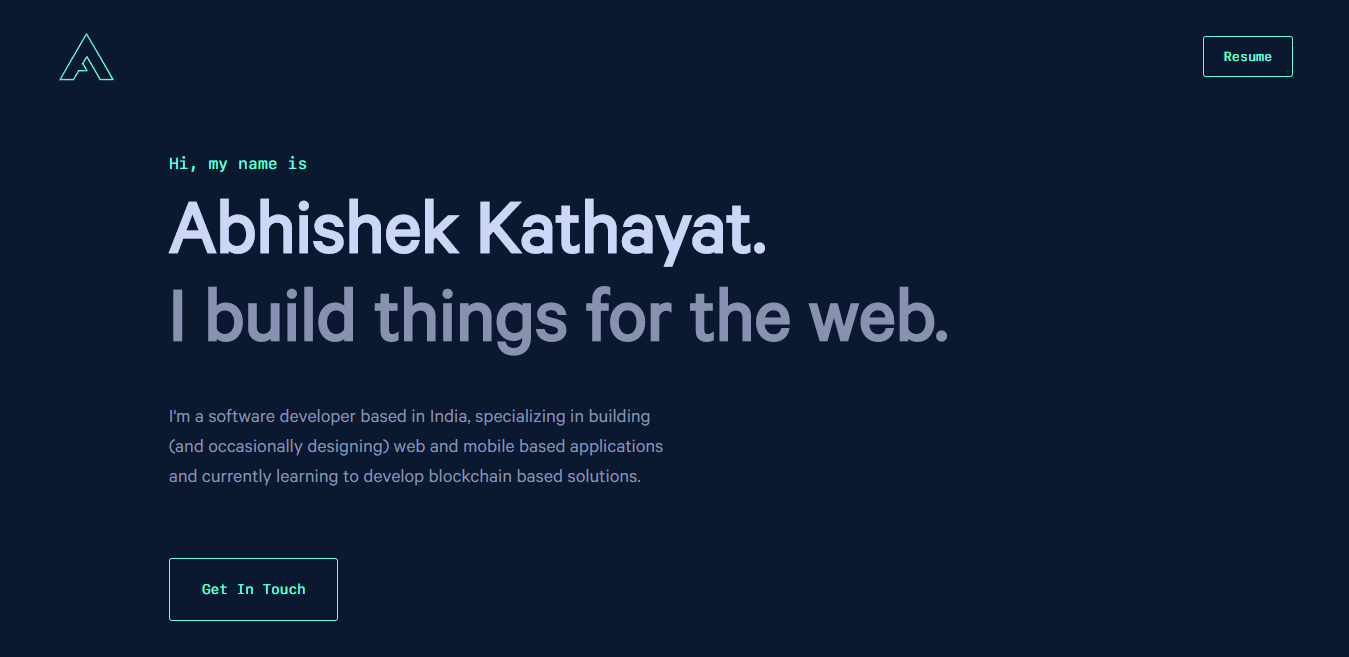
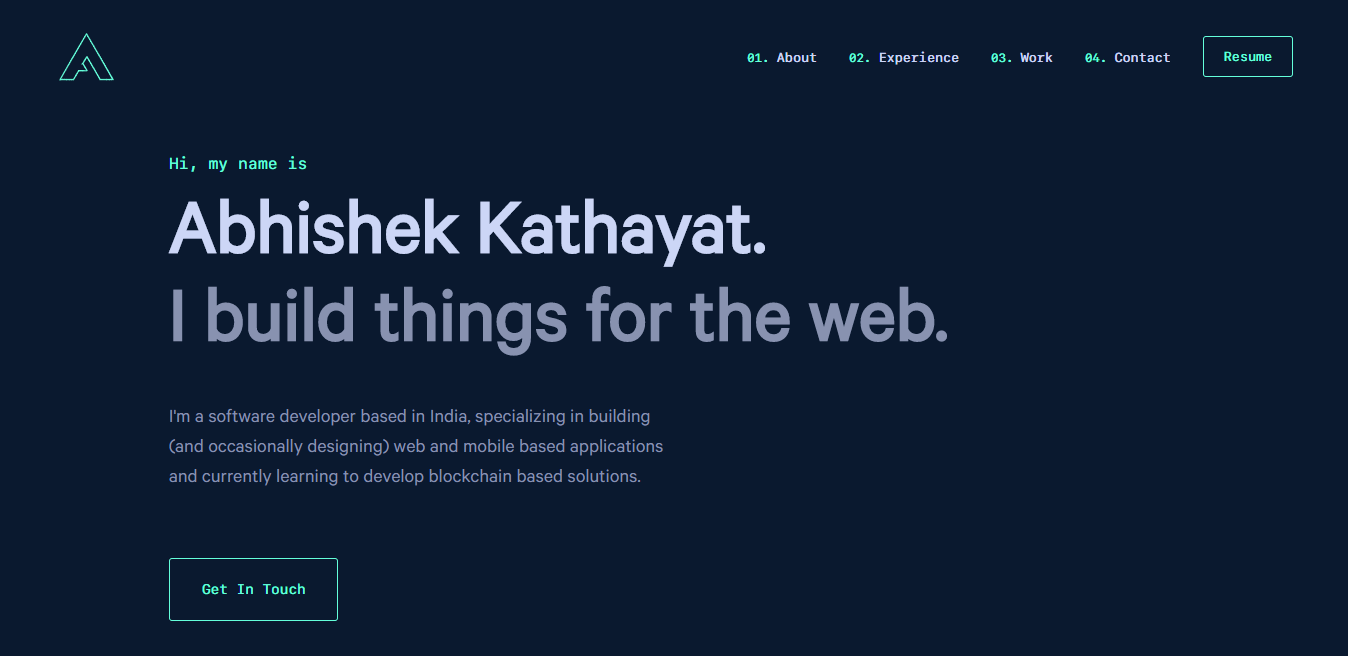
Changes Navbar

diff --git a/src/components/Navbar.vue b/src/components/Navbar.vue
@@ -5,6 +5,24 @@
                 <a href="https://abhishek-kathayat.github.io"><img src="../assets/profile-logo.svg" class="h-16 w-16"/></a>
             </div>
             <div class="navbar-right-section flex">
+                <ul class="navbar-right-links md:flex hidden">
+                    <li class="navbar-right-link-holder mx-4 self-center"> 
+                        <span class="navbar-right-link-index"> 01. </span> 
+                        <span class="navbar-right-link-text"> <a href=""> About </a> </span> 
+                    </li>
+                    <li class="navbar-right-link-holder mx-4 self-center"> 
+                        <span class="navbar-right-link-index"> 02. </span> 
+                        <span class="navbar-right-link-text"> <a href=""> Experience </a> </span> 
+                    </li>
+                    <li class="navbar-right-link-holder mx-4 self-center"> 
+                        <span class="navbar-right-link-index"> 03. </span> 
+                        <span class="navbar-right-link-text"> <a href=""> Work </a> </span> 
+                    </li>
+                    <li class="navbar-right-link-holder ml-4 mr-8 self-center"> 
+                        <span class="navbar-right-link-index"> 04. </span> 
+                        <span class="navbar-right-link-text"> <a href=""> Contact </a> </span> 
+                    </li>
+                </ul>
                 <a href="./resume.pdf" target="_blank" rel="noopener noreferrer" class="navbar-right-section-button flex self-center px-5">
                     Resume
                 </a>
@@ -20,6 +38,19 @@ export default {
 </script>
 
 <style scoped>
+.navbar-right-link-index {
+    font-family: 'San Francisco';
+    font-size: 12px;
+    color: #64ffda;
+}
+.navbar-right-link-text {
+    font-family: 'San Francisco';
+    font-size: 13px;
+    color: #ccd6f6;
+}
+.navbar-right-link-text:hover {
+    color: #64ffda;
+}
 .navbar-right-section-button {
     border-color: #64ffda;
     border-width: 1px;

diff --git a/src/components/Aboutme.vue b/src/components/Aboutme.vue
@@ -35,7 +35,7 @@
                 </div>
                 <div class="aboutme-main-content-image-container mt-12 md:mt-0 md:ml-16 md:w-5/12 lg:w-6/12">
                     <div class="aboutme-image-container flex justify-center">
-                        <img class="aboutme-image" src="../assets/abhishek.jpg">
+                        <img class="aboutme-image shadow-lg" src="../assets/abhishek.jpg">
                     </div>
                 </div>
             </div>
@@ -87,6 +87,7 @@ export default {
 }
 .aboutme-image {
     width: 58%;
+    border-radius: 3px;
 }
 @media only screen and (max-width: 1125px) {
     .aboutme-image {
